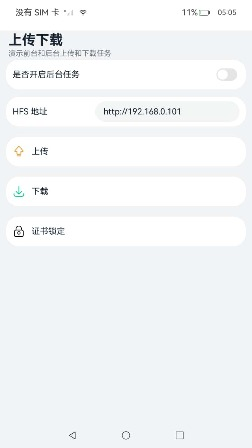
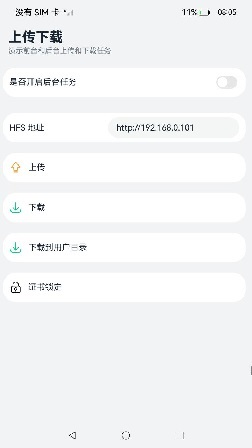
update

diff --git a/code/BasicFeature/Connectivity/UploadAndDownLoad/README_zh.md b/code/BasicFeature/Connectivity/UploadAndDownLoad/README_zh.md
@@ -5,15 +5,15 @@
 
 ### 效果预览
 
-|               主页               |             上传             |             片段上传             |                 下载                 |                 证书锁定                 |
-| :---------------------------------------: | :---------------------------------------: | :--------------------------------------: | :--------------------------------------: | ---------------------------------------- |
-|    ![home](screenshots/devices/zh/home.jpg)    | ![util](screenshots/devices/zh/upload.jpg) | ![util](screenshots/devices/zh/uploadchunk.jpg) | ![convertxml](screenshots/devices/zh/download.jpg) | ![cert_lock](screenshots/devices/zh/cert_lock.jpg) |
+|               主页               |             上传             |             片段上传             |                 下载                 |                 下载到用户目录                 |                 证书锁定                 |
+| :---------------------------------------: | :---------------------------------------: | :--------------------------------------: | :--------------------------------------: | :--------------------------------------: | ---------------------------------------- |
+|    ![home](screenshots/devices/zh/home.jpg)    | ![util](screenshots/devices/zh/upload.jpg) | ![util](screenshots/devices/zh/uploadchunk.jpg) | ![convertxml](screenshots/devices/zh/download.jpg) | ![convertxml](screenshots/devices/zh/download_user.jpg) | ![cert_lock](screenshots/devices/zh/cert_lock.jpg) |
 
 使用说明
 
 1.本示例功能需要先配置服务器环境后使用，具体配置见[上传下载服务配置](./environment)。
 
-2.首页展示上传、下载和证书锁定三个入口组件，点击进入对应的页面，如果要使用后台下载任务，请开启后台任务开关。
+2.首页展示上传、下载、下载到用户目录和证书锁定四个入口组件，点击进入对应的页面，如果要使用后台下载任务，请开启后台任务开关。
 
 3.上传页面：
 
@@ -133,9 +133,9 @@ UploadAndDownload
 
 1.本示例仅支持标准系统上运行，支持设备：RK3568。
 
-2.本示例为Stage模型，支持API12版本SDK，SDK版本号(API Version 12),镜像版本号(5.0)
+2.本示例为Stage模型，支持API20版本SDK，SDK版本号(API Version 20),镜像版本号(6.0)
 
-3.本示例需要使用DevEco Studio 版本号(4.1 Release)及以上版本才可编译运行。
+3.本示例需要使用DevEco Studio 版本号(5.0.5 Release)及以上版本才可编译运行。
 
 4.运行本示例需全程联网。
 
